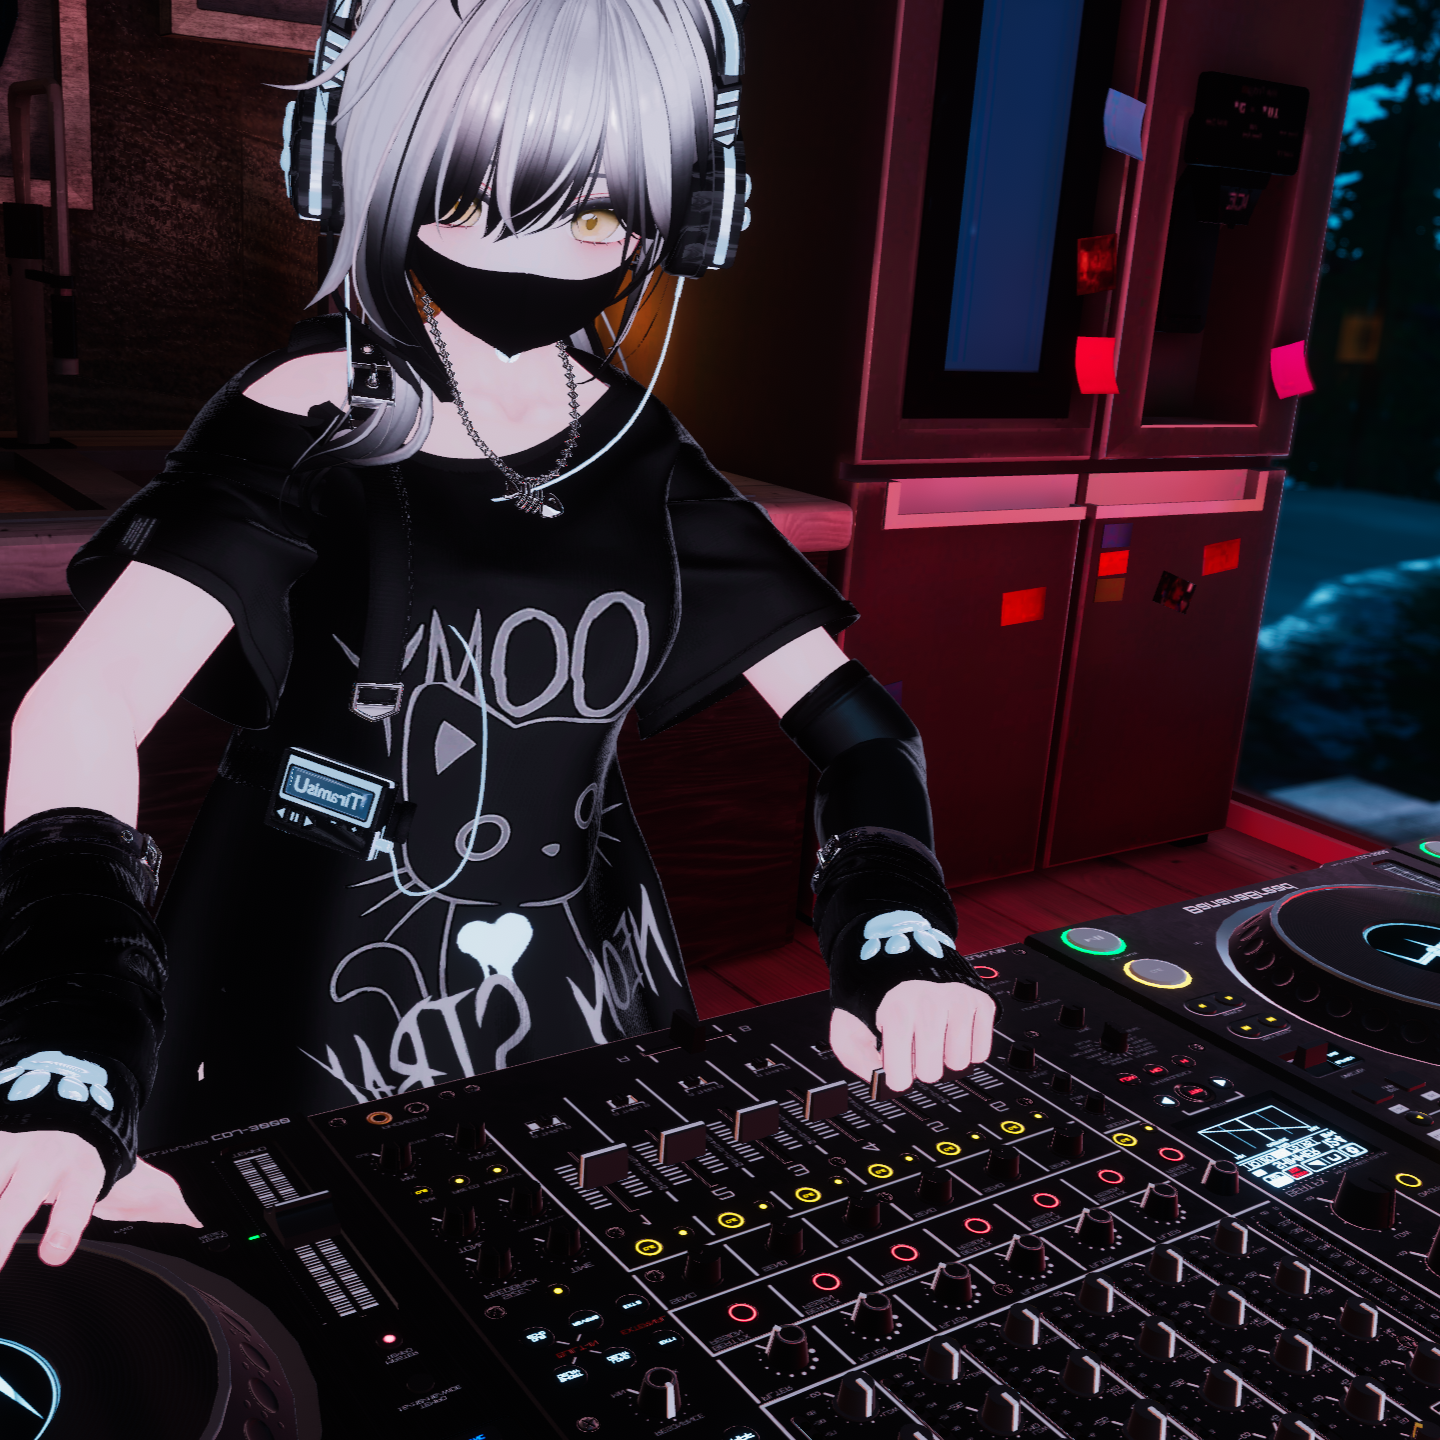
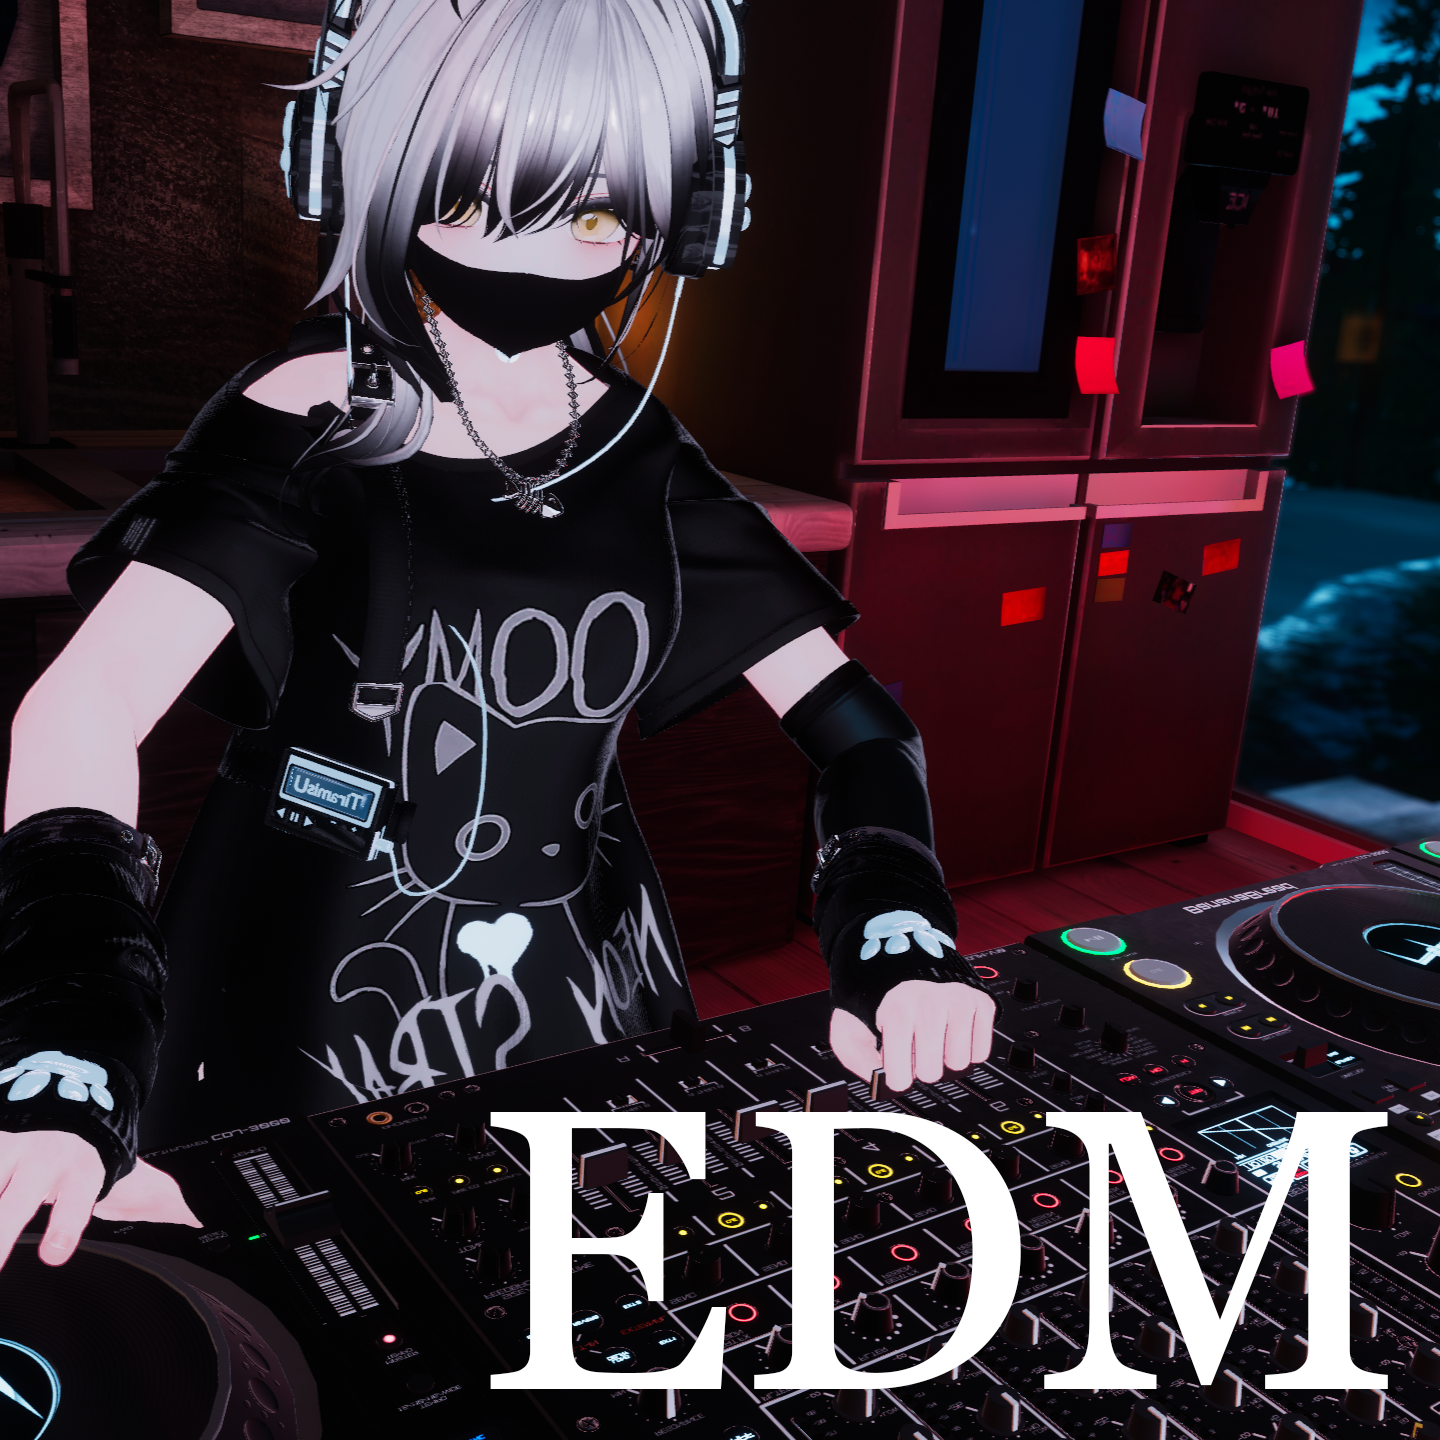
chore: static album player images

Changed region(s): [[0.3438, 0.75, 0.7188, 0.9688], [0.7188, 0.75, 0.9688, 0.9688]]

diff --git a/frontend/src/components/AlbumPlayer.tsx b/frontend/src/components/AlbumPlayer.tsx
@@ -617,33 +617,6 @@ const AlbumPlayer: React.FC<AlbumPlayerProps> = ({ className = "", t }) => {
                   }}
                   style={{ boxShadow: "0 0 15px rgba(0, 0, 0, 0.3)" }}
                 />
-                {/* Genre name overlay */}
-                <div className="absolute inset-0">
-                  <div
-                    className="absolute"
-                    style={{
-                      fontFamily:
-                        "'Crimson Text', 'EB Garamond', 'Libre Baskerville', 'Times New Roman', 'Noto Serif JP', serif",
-                      fontStyle: "normal",
-                      color: "rgba(255, 255, 255, 0.7)", // 半透明白色
-                      // 应用当前选中类型的配置
-                      fontSize:
-                        GENRE_FONT_CONFIG[selectedGenre]?.fontSize || "3rem",
-                      fontWeight:
-                        GENRE_FONT_CONFIG[selectedGenre]?.fontWeight || 300,
-                      letterSpacing:
-                        GENRE_FONT_CONFIG[selectedGenre]?.letterSpacing ||
-                        "0.05em",
-                      transform:
-                        GENRE_FONT_CONFIG[selectedGenre]?.transform ||
-                        "translate(-50%, -50%)",
-                      ...GENRE_FONT_CONFIG[selectedGenre]?.position,
-                    }}
-                  >
-                    {GENRE_OPTIONS.find((g) => g.id === selectedGenre)?.name ||
-                      selectedGenre.toUpperCase()}
-                  </div>
-                </div>
               </>
             ) : (
               <div className="w-full h-full bg-gradient-to-br from-purple-400 to-blue-500 flex items-center justify-center">
